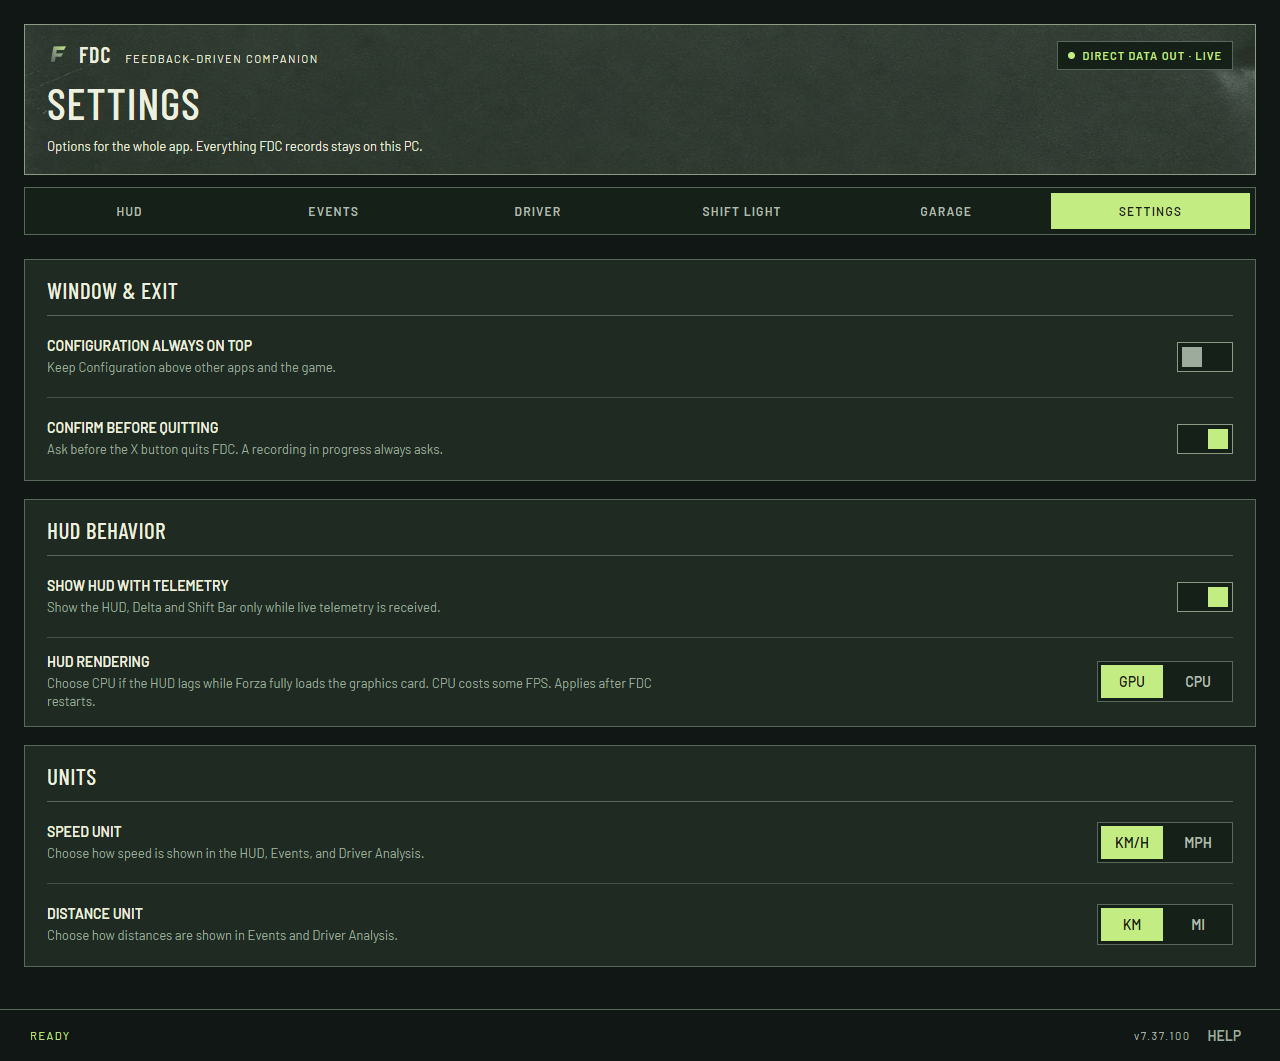
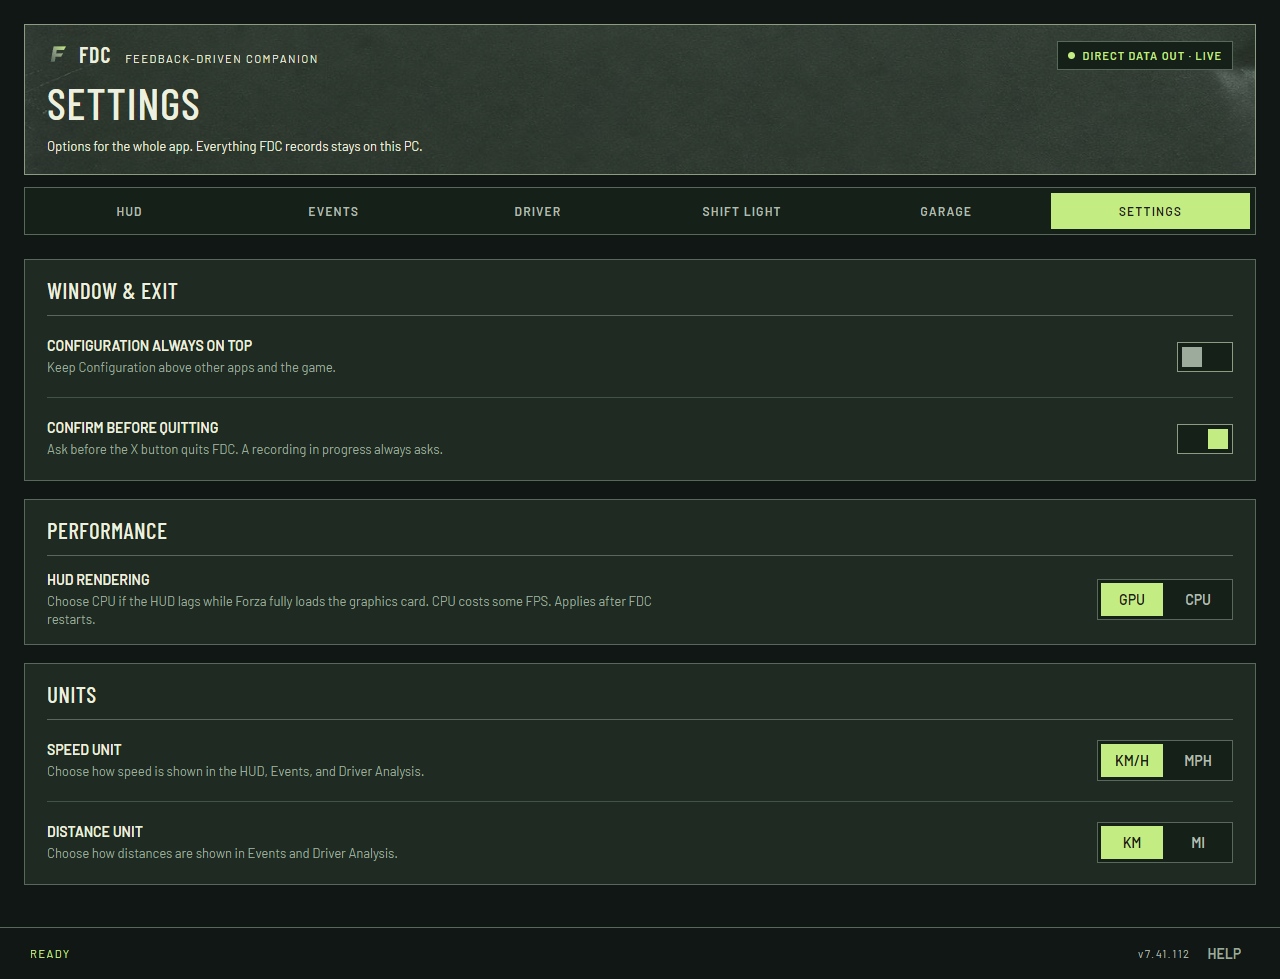
docs: refresh HUD and Configuration screenshots
Show the slanted Shift Bar in the README GIF and the Shift Light image,
the brake target and peak marker in the HUD guide, and the regrouped HUD,
Shift Light and Settings tabs in the Configuration screenshots. The Shift
Light image now shows the purple cue, so its alt text says so.

diff --git a/README.md b/README.md
@@ -41,7 +41,7 @@ smallest size, and can only be enlarged.
 
 ### Shift Light
 
-![Gear block and Shift Bar flashing red at the rev limiter](docs/images/hud-shift-light.png)
+![Gear block and Shift Bar flashing purple at the Shift Light cue](docs/images/hud-shift-light.png)
 
 Shift Light learns per-gear shift points for each car and tune from live
 telemetry. The gear block flashes red near the rev limiter, from 97% of the

diff --git a/docs/hud.md b/docs/hud.md
@@ -4,7 +4,7 @@ The HUD is FDC's in-game telemetry overlay. It renders the normalized Direct
 Data Out telemetry that the native layer delivers through `queueTelemetry`; it
 has no other data source.
 
-![Grouped HUD while driving](images/hud-in-game.png)
+![Grouped HUD while braking, with the brake target and peak marker](images/hud-in-game.png)
 
 ## Overlay window
 
